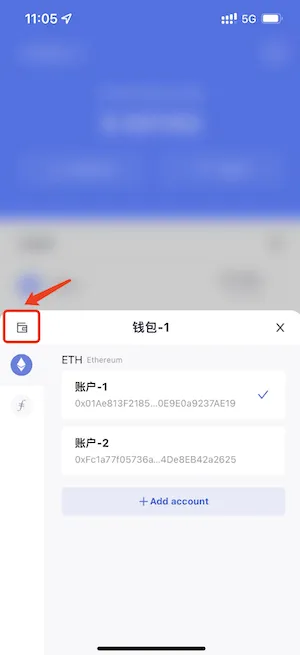
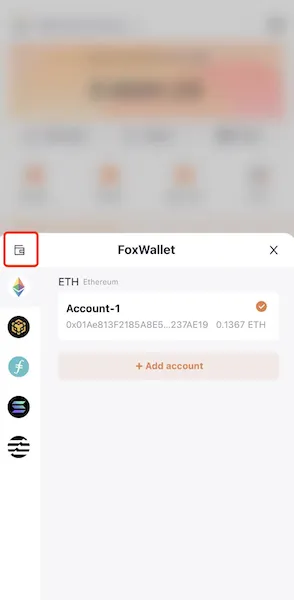
update some screenshots

diff --git a/docs/01-basic/08-invite.md b/docs/01-basic/08-invite.md
@@ -3,17 +3,15 @@ description: invite your friends to Web3
 ---
 
 # Invite
-Invite your friends to [download FoxWallet](https://foxwallet.com/download), and enter invitation code.
+Invite your friends to [download FoxWallet](https://foxwallet.com/download), and enter invite code.
 
-## 1. Get your invitation code
+## 1. Get your invite code
 
 * Click the “Share” menu in "Me" page
   
   ![setting-share](../img/setting-share.webp)
-* If your haven't bind identity，click “Bind Identity First” and choose an ETH account as your identity.
-  
-  ![identity](../img/identity.webp)
-* Click "Get Invitation Code" in "Share" page, you should be able to see the invitation code after pass the verification.
+
+* Click "Get Invite Code" in "Share" page, you should be able to see the invite code after pass the verification.
   
   ![get-invite-code](../img/get-invite-code.webp)
 
@@ -22,13 +20,10 @@ Invite your friends to [download FoxWallet](https://foxwallet.com/download), and
 * Click "Share link" or "Share picture" button in "Share" page 
 * You can send the FoxWallet official website url `https://foxwallet.com/` too.
 
-## 3. Enter invitation code
+## 3. Enter invite code
 
-* Copy and send your invitation code to your friends
-* Let your friends click the "Enter invitation code" menu in "Me" page
-  
-  ![setting-enter-invite-code](../img/setting-enter-invite-code.webp)
-* click “Bind Identity First” and choose an ETH account.
-* Enter invitation code
+* Copy and send your invite code to your friends
+* Let your friends click the "Share" menu in "Me" page
+* Enter invite code
   
   ![enter-invite-code](../img/enter-invite-code.webp)

diff --git a/docs/01-basic/04-manage-wallet.md b/docs/01-basic/04-manage-wallet.md
@@ -11,7 +11,7 @@ Click the "+ Add wallet" button in "Wallets" page, select the corresponding meth
 ## Switch wallet
 Click the switch button on the left-top corner of wallet screen.  
 
-![](../img/switch-wallet-1.webp)  
+![](../img/switch-entrance.webp)  
 
 Click the manage icon on the left-top corner of pop-up screen.  
 
@@ -21,9 +21,7 @@ Select the wallet you want to switch to.
 
 ![](../img/switch-wallet-3.webp)  
 
-Back to the wallet screen, new wallet is switched.  
-
-![](../img/switch-wallet-4.webp)  
+Back to the wallet screen, new wallet is switched.   
 
 ## Delete wallet
 Select the wallet that needs to be deleted, click the “...” button in the upper right corner, and then click “Delete”. 

diff --git a/docs/02-aptos/index.md b/docs/02-aptos/index.md
@@ -22,11 +22,8 @@ keywords:
 
 ## Usage
 
-* Open [FoxWallet](https://foxwallet.com/)  
-  ![](../img/wallet-eth.webp)
-
-* Switch to Aptos and Select one account  
-  ![](../img/switch-wallet.webp)![](../img/switch-aptos.webp)
+* Open [FoxWallet](https://foxwallet.com/), switch to Aptos and Select one account  
+  ![](../img/switch-entrance.webp)![](../img/switch-aptos.webp)
 
 * View and transfer your APT  
   ![](../img/wallet-aptos.webp)  

diff --git a/i18n/zh/docusaurus-plugin-content-docs/current/03-ethereum/zksync-v2-alpha-testnet.md b/i18n/zh/docusaurus-plugin-content-docs/current/03-ethereum/zksync-v2-alpha-testnet.md
@@ -21,7 +21,7 @@ keywords:
 
 点击钱包主页左上角的切换按钮 => 选择 zkSync Alpha Testnet => 选择一个账户。
 
-![](../img/switch-network.webp)![](../img/switch-zksync-alpha-testnet.webp)
+![](../img/switch-entrance.webp)![](../img/switch-zksync-alpha-testnet.webp)
 
 ## 获取测试币 和 体验跨链桥
 

diff --git a/i18n/zh/docusaurus-plugin-content-docs/current/03-ethereum/eth-goerli-testnet.md b/i18n/zh/docusaurus-plugin-content-docs/current/03-ethereum/eth-goerli-testnet.md
@@ -17,7 +17,7 @@ keywords:
 ## 切换网络
 点击左上角的切换按钮 => 选择 Goerli Testnet => 选择一个账户。
 
-![](../img/switch-network.webp)![](../img/switch-goerli.webp)
+![](../img/switch-entrance.webp)![](../img/switch-goerli.webp)
 
 ## 获取测试币
 Goerli测试币可通过一下水龙头领取：

diff --git a/docs/01-basic/03-manage-funds.md b/docs/01-basic/03-manage-funds.md
@@ -3,7 +3,7 @@
 ### Switch networks
 [FoxWallet](https://foxwallet.com) supports multiple chains, you can switch them through the button in the top left corner of the “Wallet”
 
-![](../img/switch-wallet.webp)
+![](../img/switch-entrance.webp)
 
 ### Receive
 Click the “Receive” button to get your wallet address.

diff --git a/docs/03-ethereum/zksync-v2-alpha-testnet.md b/docs/03-ethereum/zksync-v2-alpha-testnet.md
@@ -27,7 +27,7 @@ keywords:
 
 Click the switch button in main page => Choose zkSync Alpha Testnet => Select one account.
 
-![](../img/switch-network.webp)![](../img/switch-zksync-alpha-testnet.webp)
+![](../img/switch-entrance.webp)![](../img/switch-zksync-alpha-testnet.webp)
 
 ## Get testnet coin and bridge
 

diff --git a/i18n/zh/docusaurus-plugin-content-docs/current/01-basic/03-manage-funds.md b/i18n/zh/docusaurus-plugin-content-docs/current/01-basic/03-manage-funds.md
@@ -5,7 +5,7 @@ sidebar_position: 4
 # 收款与转账
 FoxWallet 支持多种链，可点击 ”钱包“页面左上角按钮进行切换。
 
-![](../img/switch-wallet.webp)
+![](../img/switch-entrance.webp)
 
 ### 收款
 点击”收款”按钮，可获取钱包地址和二维码。

diff --git a/docs/03-ethereum/eth-goerli-testnet.md b/docs/03-ethereum/eth-goerli-testnet.md
@@ -20,7 +20,7 @@ keywords:
 ## Switch Network
 Click the switch button in main page => Choose Goerli Testnet => Select one account.
 
-![](../img/switch-network.webp)![](../img/switch-goerli.webp)
+![](../img/switch-entrance.webp)![](../img/switch-goerli.webp)
 
 
 ## Get Test Coin

diff --git a/i18n/zh/docusaurus-plugin-content-docs/current/03-ethereum/conflux.md b/i18n/zh/docusaurus-plugin-content-docs/current/03-ethereum/conflux.md
@@ -23,4 +23,4 @@ keywords:
 
 点击钱包主页左上角的切换按钮 => 选择 Conflux eSpace => 选择一个账户。
 
-![](../img/switch-network.webp)![](../img/switch-conflux.webp)
+![](../img/switch-entrance.webp)![](../img/switch-conflux.webp)

diff --git a/i18n/zh/docusaurus-plugin-content-docs/current/03-ethereum/kava.md b/i18n/zh/docusaurus-plugin-content-docs/current/03-ethereum/kava.md
@@ -20,4 +20,4 @@ keywords:
 
 点击钱包主页左上角的切换按钮 => 选择 Kava EVM Co-Chain => 选择一个账户。
 
-![](../img/switch-network.webp)![](../img/switch-kava.webp)
+![](../img/switch-entrance.webp)![](../img/switch-kava.webp)
